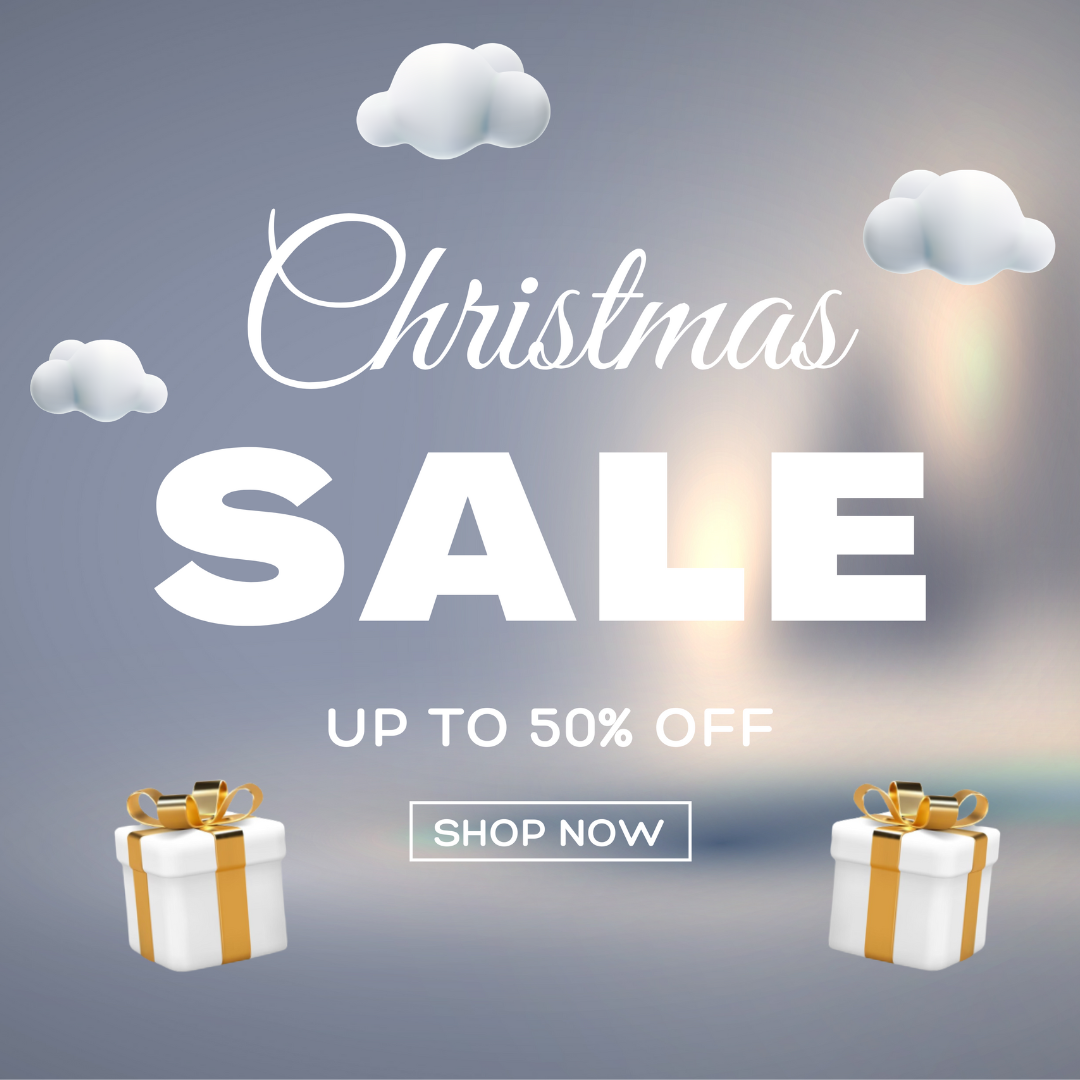
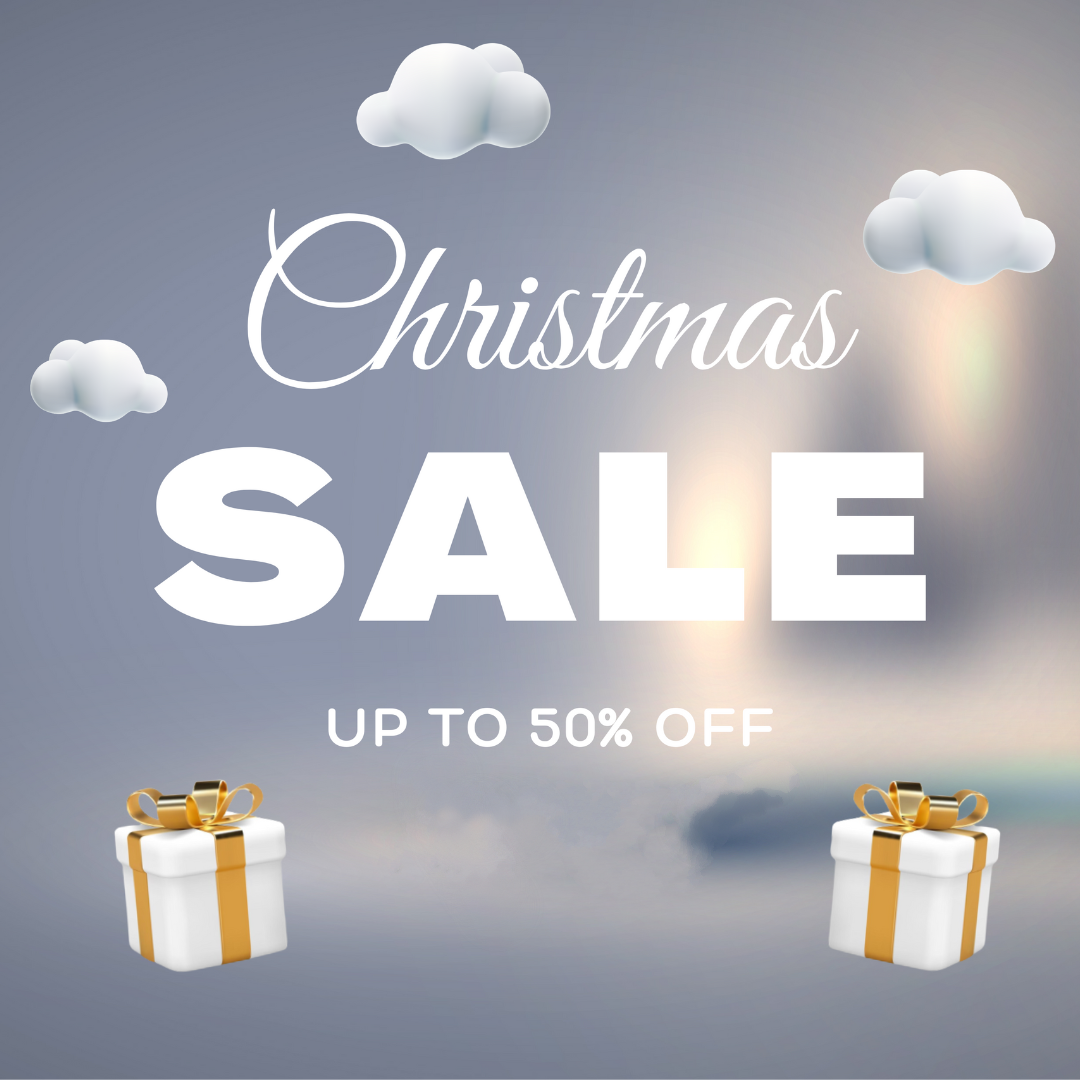
Updated HomePage

Changed region(s): [[0.3667, 0.7333, 0.6722, 0.825]]

diff --git a/client/src/components/navigation/Navbar.tsx b/client/src/components/navigation/Navbar.tsx
@@ -18,6 +18,7 @@ import { fetchAllSizes } from "../../redux/slice/SizeSlice";
 import { fetchAllColors } from "../../redux/slice/ColorSlice";
 import Badge from "../badge/Badge";
 import { fetchAllBrands } from "../../redux/slice/BrandSlice";
+import Button from "../button/Button";
 
 const Navbar: React.FC = () => {
   const { menCategories, womenCategories } = useSelector(
@@ -108,41 +109,48 @@ const Navbar: React.FC = () => {
                   <span className={`${styles.menuItem}`}>Home</span>
                 </li> */}
 
-                <li
+                {/* <li
                   className={`h-full flex items-center justify-center ${
                     selectedMenu === "women" ? styles.active : ""
                   }`}
                   onClick={() => navigate("/women?cat=tops")}
                 >
                   <span className={`${styles.menuItem}`}>Women</span>
-                </li>
+                </li> */}
 
-                <li
+                <Button
+                  onClick={() => navigate("/women?cat=tops")}
+                  variant="friday-btn"
+                >
+                  Black Friday
+                </Button>
+
+                {/* <li
                   className={`h-full flex items-center justify-center ${
                     selectedMenu === "men" ? styles.active : ""
                   }`}
                   onClick={() => navigate("/men?cat=t-shirts")}
                 >
                   <span className={`${styles.menuItem}`}>Men</span>
-                </li>
+                </li> */}
 
-                <li
+                {/* <li
                   className={`h-full flex items-center justify-center ${
                     selectedMenu === "trending" ? styles.active : ""
                   }`}
                   onClick={() => navigate("/trending")}
                 >
                   <span className={`${styles.menuItem}`}>Christmas Sales</span>
-                </li>
+                </li> */}
 
-                <li
+                {/* <li
                   className={`h-full flex items-center justify-center ${
                     selectedMenu === "brands" ? styles.active : ""
                   }`}
                   onClick={() => navigate("/brands")}
                 >
                   <span className={`${styles.menuItem}`}>Brands</span>
-                </li>
+                </li> */}
               </ul>
             </div>
           </div>
@@ -175,8 +183,8 @@ const Navbar: React.FC = () => {
             </div>
             <div
               className="relative cursor-pointer"
-              title="Cart"
-              onClick={() => navigate("/cart")}
+              title="Card"
+              onClick={() => navigate("/card")}
             >
               {productsInCart.length > 0 ? (
                 <Badge quantity={productsInCart.length} />

diff --git a/client/src/pages/card/Card.tsx b/client/src/pages/card/Card.tsx
@@ -1,0 +1,76 @@
+import { useDispatch, useSelector } from "react-redux";
+import { AppDispatch, RootState } from "../../redux/store";
+import { useEffect, useState } from "react";
+import { TProduct, TProductRating } from "../../types/products.type";
+import { fetchProductsByIds } from "../../redux/slice/ProductSlice";
+import Loader from "../../components/loader/Loader";
+import ProductCard from "../../components/productCard/ProductCard";
+import styles from "./Card.module.scss";
+
+const Card = () => {
+  const dispatch: AppDispatch = useDispatch();
+  const { productsInCart } = useSelector((state: RootState) => state.product);
+
+  const [isLoading, setIsLoading] = useState<boolean>(false);
+  const [products, setProducts] = useState<TProduct[]>([]);
+
+  useEffect(() => {
+    if (productsInCart.length) {
+      console.log("productsInCart", productsInCart);
+
+      setIsLoading(true);
+      dispatch(fetchProductsByIds(productsInCart))
+        .then((res: any) => {
+          if (res.payload.data?.success) {
+            setProducts(res.payload.data.data);
+            setIsLoading(false);
+          }
+        })
+        .catch((err: any) => {
+          console.error("err", err);
+        });
+    } else {
+      setProducts([]);
+      setIsLoading(false);
+    }
+  }, [productsInCart]);
+
+  if (isLoading) {
+    return <Loader />;
+  }
+
+  return (
+    <div>
+      <div>
+        <div>
+          <h3>My Bag</h3>
+        </div>
+        <div>
+          {products.length && !isLoading ? (
+            <div>
+              {products.map((product: TProduct) => {
+                let prod = { ...product };
+                const sum = prod.ratings.reduce(
+                  (accumulator: number, object: TProductRating) => {
+                    return accumulator + object.rate;
+                  },
+                  0
+                );
+                let total = sum > 0 ? sum / prod.ratings.length : 0;
+                prod.totalRatings = Number(total.toFixed(1));
+                return <ProductCard key={prod._id} product={prod} />;
+              })}
+            </div>
+          ) : (
+            <div className="text-center text-[24px] italic opacity-[0.7]">
+              No saved items...
+            </div>
+          )}
+        </div>
+      </div>
+      <div>checkout</div>
+    </div>
+  );
+};
+
+export default Card;

diff --git a/client/src/components/home/christmas-sale/ChristmasSale.module.scss b/client/src/components/home/christmas-sale/ChristmasSale.module.scss
@@ -1,12 +1,54 @@
+@import '../../../assets/scss/variables';
+@import '../../../assets/scss/mixins';
+
 .container {
   width: 100%;
-  height: calc(100vh - 96px);
+  height: 100vh;
   display: grid;
-  grid-template-columns: 60% 40%;
+  grid-template-columns: 1.8fr 1.2fr;
 
-  .rightDiv {
-    background-position: center center;
+  @include xl {
+    grid-template-columns: 1fr;
+  }
+
+  @include md {
+    height: 89vh;
+  }
+
+  @include sm {
+    height: 89vh;
+  }
+
+  >div {
+    background-position: center;
     background-repeat: no-repeat;
     background-size: cover;
+
+    @include md {
+      background-size: contain;
+    }
+  }
+
+  .rightDiv {
+    @include flexbox(row, center, flex-end);
+
+    >button {
+      width: 250px;
+      margin-bottom: 150px;
+
+      @include xl {
+        margin-bottom: 80px;
+      }
+
+      @include lg {
+        margin-bottom: 120px;
+      }
+    }
+  }
+
+  .leftDiv {
+    @include xl {
+      display: none;
+    }
   }
 }

diff --git a/client/src/App.tsx b/client/src/App.tsx
@@ -19,8 +19,8 @@ import { me } from "./redux/slice/UserSlice";
 import BrandsPage from "./pages/BrandsPage";
 import TrendingPage from "./pages/TrendingPage";
 import Terms from "./pages/Terms";
-import Favorites from "./pages/Favorites";
-import Cart from "./pages/Cart";
+import Favorites from "./pages/favorites/Favorites";
+import Card from "./pages/card/Card";
 import ProductPage from "./pages/ProductPage";
 import "reactjs-popup/dist/index.css";
 import Popup from "reactjs-popup";
@@ -63,7 +63,7 @@ const App = () => {
         <Route path="/brands" element={<BrandsPage />} />
         <Route path="/terms" element={<Terms />} />
         <Route path="/favorites" element={<Favorites />} />
-        <Route path="/cart" element={<Cart />} />
+        <Route path="/card" element={<Card />} />
         <Route path="brand/:id" element={<BrandPage />} />
         <Route path="product/:id" element={<ProductPage />} />
       </Routes>

diff --git a/client/src/components/Sidebar.tsx b/client/src/components/Sidebar.tsx
@@ -137,7 +137,7 @@ const Sidebar = ({ showSidebar, setShowSidebar }: SidebarProps) => {
             </NavLink>
           </div>
 
-          <div className=" w-full">
+          {/* <div className=" w-full">
             <div
               className="flex items-center justify-between"
               onClick={() => setShowMenItem(!showMenItem)}
@@ -149,7 +149,7 @@ const Sidebar = ({ showSidebar, setShowSidebar }: SidebarProps) => {
                 } duration-300`}
               ></i>
             </div>
-            {/* Dropdown */}
+            
             {showMenItem === true ? (
               <div className="mt-4">
                 <ul>
@@ -168,7 +168,7 @@ const Sidebar = ({ showSidebar, setShowSidebar }: SidebarProps) => {
                 </ul>
               </div>
             ) : null}
-          </div>
+          </div> */}
 
           <div className=" w-full">
             <div

diff --git a/client/src/pages/favorites/Favorites.tsx b/client/src/pages/favorites/Favorites.tsx
@@ -1,13 +1,13 @@
 import { useEffect, useState } from "react";
 import { useDispatch, useSelector } from "react-redux";
-import { AppDispatch, RootState } from "../redux/store";
+import { AppDispatch, RootState } from "../../redux/store";
 import {
   fetchProductById,
   fetchProductsByIds,
-} from "../redux/slice/ProductSlice";
-import Loader from "../components/loader/Loader";
-import { TProduct, TProductRating } from "../types/products.type";
-import ProductCard from "../components/productCard/ProductCard";
+} from "../../redux/slice/ProductSlice";
+import Loader from "../../components/loader/Loader";
+import { TProduct, TProductRating } from "../../types/products.type";
+import ProductCard from "../../components/productCard/ProductCard";
 
 const Favorites = () => {
   const dispatch: AppDispatch = useDispatch();

diff --git a/client/src/components/button/Button.module.scss b/client/src/components/button/Button.module.scss
@@ -56,4 +56,36 @@ button {
       color: $dark;
     }
   }
+
+  &.light {
+    padding: 10px;
+    border: 2px solid white;
+    background-color: transparent;
+    transition: .5s;
+    @include typography(16px, 700, $white, center, 5px);
+    text-transform: uppercase;
+
+    &:hover {
+      background-color: $white;
+      color: $dark;
+    }
+  }
+
+  &.friday-btn {
+    padding: 8px 40px;
+    background-color: $red;
+    border: 2px solid $red;
+    @include typography(16px, 700, $white, center, 4px);
+    text-transform: uppercase;
+    clip-path: polygon(0px 0px, 88% 0px, 100% 100%, 11% 100%);
+
+    transition: .5s;
+
+    &:hover {
+      background-color: transparent;
+      border-right-color: transparent;
+      border-left-color: transparent;
+      color: $red;
+    }
+  }
 }

diff --git a/client/src/components/home/christmas-sale/ChristmasSale.tsx b/client/src/components/home/christmas-sale/ChristmasSale.tsx
@@ -1,4 +1,6 @@
 import bigsale_img from "../../../assets/images/bigsales.png";
+import girl_image from "../../../assets/images/girl-in-hat.jpeg";
+import Button from "../../button/Button";
 import styles from "./ChristmasSale.module.scss";
 
 const ChristmasSale = () => {
@@ -7,8 +9,13 @@ const ChristmasSale = () => {
       <div
         style={{ backgroundImage: `url(${bigsale_img})` }}
         className={styles.rightDiv}
+      >
+        <Button variant="light">shop now</Button>
+      </div>
+      <div
+        style={{ backgroundImage: `url(${girl_image})` }}
+        className={styles.leftDiv}
       ></div>
-      <div></div>
     </div>
   );
 };

diff --git a/client/src/components/home/black-friday/BlackFriday.module.scss b/client/src/components/home/black-friday/BlackFriday.module.scss
@@ -12,12 +12,12 @@
   position: relative;
 
   .overlay {
+    width: 100%;
+    height: 100%;
+    background-color: rgba(255, 255, 255, 0.2);
     position: absolute;
     left: 0;
     top: 0;
-    background-color: rgba(255, 255, 255, 0.2);
-    width: 100%;
-    height: 100%;
   }
 
   @include flexbox(row, center, flex-end);

diff --git a/client/src/components/home/categories/Categories.module.scss b/client/src/components/home/categories/Categories.module.scss
@@ -1,7 +1,7 @@
 @import '../../../assets/scss/mixins';
 
 .card {
-  height: 270px;
+  height: 350px;
   padding-bottom: 10px;
   background-size: cover;
   background-repeat: no-repeat;

diff --git a/client/src/assets/scss/_variables.scss b/client/src/assets/scss/_variables.scss
@@ -13,5 +13,6 @@ $white: #FFFFFF;
 $yellow: #FECE00;
 $dark: #272727;
 $orange: #FF6D2E;
+$red: #b40505;
 
 $main-font: 'Roboto', sans-serif;
